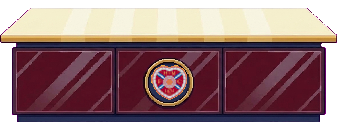
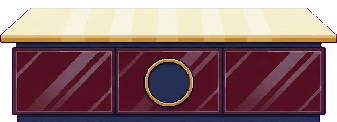
HD desk: draw the club crest as a vector, not baked pixels
The crest was drawn into the desk picture at 36 pixels from a 32px sprite, so on the HD screen it was blocky and
the detail was lost. The desk now keeps its medallion blank, and the page draws the crest's SVG over it on the same
camera transform as the desk. set.json gets a crest box; tools/bake/set.mjs copies the SVG to site/public/hd.

Changed region(s): [[0.4451, 0.5164, 0.5638, 0.8115]]

diff --git a/site/src/hd/renderer.ts b/site/src/hd/renderer.ts
@@ -69,6 +69,9 @@ const STYLE = `
 .hd-frame { position: relative; aspect-ratio: 16 / 9; width: min(100vw, 100vh * 16 / 9); overflow: hidden; background: #0e0c10;
   font-size: calc(min(100vw, 100vh * 16 / 9) / 100); line-height: normal; }
 .hd-scene { display: block; width: 100%; height: 100%; image-rendering: pixelated; transform-origin: 0 0; }
+/* The desk's crest (set.json, crest): on the scene's camera transform, so it moves with the desk, but drawn as a vector. */
+.hd-crest { position: absolute; inset: 0; transform-origin: 0 0; pointer-events: none; }
+.hd-crest img { position: absolute; display: block; }
 .hd-sd, .hd-layer { position: absolute; inset: 0; }
 /* The SD renderer sizes its canvas to the window: here it fills the frame instead, at 1.5 HD pixels to each SD one. */
 .hd-sd > canvas { display: block; width: 100% !important; height: 100% !important; image-rendering: pixelated; }
@@ -87,6 +90,8 @@ const WITH_COLUMN = 0.5 - COLUMN_SHIFT / 480;
 export class HdRenderer implements Renderer {
   private frame?: HTMLDivElement;
   private canvas?: HTMLCanvasElement;
+  /** The desk's club crest, over the canvas and under the graphics; hidden unless the desk is drawn. */
+  private crest?: HTMLDivElement;
   /** Holds the SD renderer's canvas. */
   private sdBox?: HTMLDivElement;
   private g?: CanvasRenderingContext2D;
@@ -143,14 +148,19 @@ export class HdRenderer implements Renderer {
     this.g.imageSmoothingEnabled = false;
     const sdBox = document.createElement('div');
     sdBox.className = 'hd-sd';
+    const crest = document.createElement('div');
+    crest.className = 'hd-crest';
+    crest.hidden = true;
+    crest.setAttribute('aria-hidden', 'true');
     const gfx = document.createElement('div');
     gfx.className = 'hd-layer hdg';
     gfx.setAttribute('aria-hidden', 'true');
-    frame.append(canvas, sdBox, gfx);
+    frame.append(canvas, sdBox, crest, gfx);
     container.append(frame);
     this.sd.mount(sdBox);
     this.frame = frame;
     this.canvas = canvas;
+    this.crest = crest;
     this.sdBox = sdBox;
     this.gfxRoot = gfx;
     this.box = new GraphicBox(gfx);
@@ -180,7 +190,7 @@ export class HdRenderer implements Renderer {
     this.moments?.remove();
     this.frame?.remove();
     this.style?.remove();
-    this.frame = this.canvas = this.sdBox = this.g = this.style = this.shown = undefined;
+    this.frame = this.canvas = this.crest = this.sdBox = this.g = this.style = this.shown = undefined;
     this.gfxRoot = this.gfxResize = this.box = this.column = this.moments = undefined;
     this.screenBox = undefined;
     this.transform = this.camKey = '';
@@ -294,6 +304,8 @@ export class HdRenderer implements Renderer {
       if (sdPanel !== this.sdPanel) this.sdBox!.hidden = !(this.sdPanel = sdPanel);
       if (sdPanel) this.sd.drawPanelOnly(s, now);
     }
+    // The crest is only on the desk (the seated view); the other scenes have no medallion.
+    if (this.crest) this.crest.hidden = view !== 'hd';
     for (const l of this.layers) l.layer.draw(s, now);
     this.moments!.draw(s, now);
   }
@@ -310,6 +322,15 @@ export class HdRenderer implements Renderer {
     try {
       const set = await loadSet(this.dir);
       const cast = await loadSeatedCast(set);
+      if (set.crest && this.crest) {
+        // Positioned in percent of the 480×270 canvas, which fills the frame: the same box the desk's medallion is at.
+        const { x, y, w, h } = set.crest;
+        const img = new Image();
+        img.alt = '';
+        img.src = this.dir + set.crest.file;
+        img.style.cssText = `left:${(x / set.w) * 100}%;top:${(y / set.h) * 100}%;width:${(w / set.w) * 100}%;height:${(h / set.h) * 100}%`;
+        this.crest.replaceChildren(img);
+      }
       // The museum is optional: without it On This Day stays on the SD scenes.
       const museum = await loadMuseum(this.dir, set.museum, set.points).catch((err) => {
         console.error(err);
@@ -352,6 +373,8 @@ export class HdRenderer implements Renderer {
 
   private setTransform(transform: string): void {
     if (transform !== this.transform) this.canvas!.style.transform = this.transform = transform;
+    // The crest has the same box and origin as the canvas, so the same transform keeps it on the medallion.
+    if (this.crest) this.crest.style.transform = transform;
   }
 
   /** The captions stop short of the column while it's in. */

diff --git a/site/src/hd/set.ts b/site/src/hd/set.ts
@@ -40,6 +40,8 @@ export type SetData = {
   backdrop: { file: string; x: number; y: number };
   /** Drawn over the seated figures; rows above `top` are transparent. */
   desk: { file: string; x: number; y: number; w: number; h: number; lip: number; top: number };
+  /** The club crest, an SVG drawn over the desk's medallion by the page (not in the desk picture), so it stays sharp at HD size. */
+  crest?: { file: string; x: number; y: number; w: number; h: number };
   props: {
     file: string;
     /** The scene row props stand on. */
